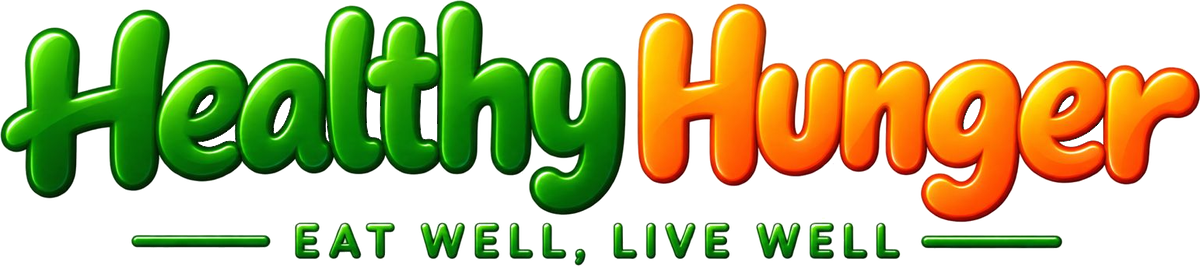
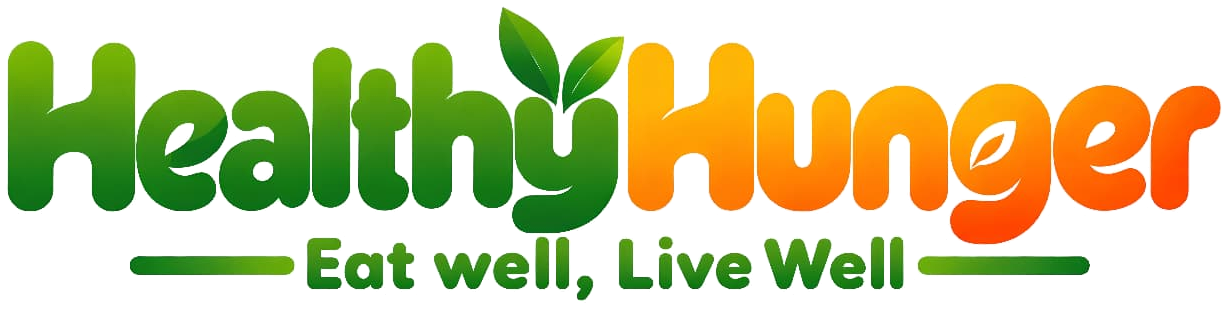
Apply the new brand wordmark everywhere, add phone to PDF menu and a monthly chart to the money book
- New Healthy Hunger wordmark (transparent) in hero, PDF and site
- BrandName text (green "Healthy" + orange "Hunger") in admin sidebar, footer and login
- PDF menu header shows "Call or WhatsApp" with the café phone from Settings
- Money book: sales, expenses and profit bar chart for the last 12 months

Claude-Session: https://claude.ai/code/session_01CESPNZ2mDnZSVm9srcJgyq

diff --git a/src/components/admin/money/monthly-chart.tsx b/src/components/admin/money/monthly-chart.tsx
@@ -1,0 +1,199 @@
+"use client";
+
+import { useState } from "react";
+import { formatINR } from "@/lib/format";
+import { cn } from "@/lib/utils";
+
+export type ChartMonth = {
+  key: string;
+  short: string;
+  label: string;
+  sales: number;
+  expenses: number;
+  profit: number;
+};
+
+// Brand green / orange plus a blue for profit; checked for colour-blind separation on both themes.
+// Dark mode uses its own steps (orange and blue a little deeper) so the bars sit evenly on the dark card.
+const SERIES = [
+  { key: "sales", label: "Sales", color: "var(--mb-sales)" },
+  { key: "expenses", label: "Expenses", color: "var(--mb-expenses)" },
+  { key: "profit", label: "Profit", color: "var(--mb-profit)" },
+] as const;
+
+const W = 760;
+const H = 260;
+const PAD = { left: 56, right: 8, top: 12, bottom: 26 };
+
+/** 1, 2, 2.5 or 5 × a power of ten – a round step for about `count` gridlines. */
+function niceStep(range: number, count = 4) {
+  const raw = range / count;
+  const pow = 10 ** Math.floor(Math.log10(raw));
+  const n = raw / pow;
+  return (n <= 1 ? 1 : n <= 2 ? 2 : n <= 2.5 ? 2.5 : n <= 5 ? 5 : 10) * pow;
+}
+
+/** ₹12k, ₹1.5L – short axis labels in the Indian style. */
+function short(v: number) {
+  const a = Math.abs(v);
+  const sign = v < 0 ? "−" : "";
+  if (a >= 100_000) return `${sign}₹${+(a / 100_000).toFixed(1)}L`;
+  if (a >= 1_000) return `${sign}₹${+(a / 1_000).toFixed(1)}k`;
+  return `${sign}₹${a}`;
+}
+
+const money = (v: number) => (v < 0 ? `−${formatINR(-v)}` : formatINR(v));
+
+/** A bar from the baseline, with 4px rounding on the end away from it. */
+function barPath(x: number, w: number, y0: number, y1: number) {
+  const up = y1 < y0;
+  const h = Math.abs(y1 - y0);
+  const r = Math.min(4, w / 2, h);
+  if (h === 0) return "";
+  return up
+    ? `M${x},${y0} V${y1 + r} Q${x},${y1} ${x + r},${y1} H${x + w - r} Q${x + w},${y1} ${x + w},${y1 + r} V${y0} Z`
+    : `M${x},${y0} V${y1 - r} Q${x},${y1} ${x + r},${y1} H${x + w - r} Q${x + w},${y1} ${x + w},${y1 - r} V${y0} Z`;
+}
+
+/** Sales, expenses and profit side by side for each month, with a hover card per month. */
+export function MonthlyChart({ months }: { months: ChartMonth[] }) {
+  const [hover, setHover] = useState<number | null>(null);
+  const values = months.flatMap((m) => [m.sales, m.expenses, m.profit]);
+  const empty = values.every((v) => v === 0);
+
+  const rawMax = Math.max(...values, 0);
+  const rawMin = Math.min(...values, 0);
+  const step = niceStep(Math.max(rawMax - rawMin, 1));
+  const top = Math.ceil(rawMax / step) * step || step;
+  const bottom = Math.floor(rawMin / step) * step;
+  const plotH = H - PAD.top - PAD.bottom;
+  const plotW = W - PAD.left - PAD.right;
+  const y = (v: number) => PAD.top + ((top - v) / (top - bottom)) * plotH;
+  const ticks: number[] = [];
+  for (let v = bottom; v <= top + step / 2; v += step) ticks.push(Math.round(v));
+
+  const groupW = plotW / months.length;
+  const gap = 2;
+  const barW = (groupW * 0.7 - gap * 2) / 3;
+  const groupX = (i: number) => PAD.left + i * groupW + groupW * 0.15;
+  const active = hover === null ? null : months[hover];
+
+  return (
+    <figure
+      className="space-y-3 [--mb-expenses:#FF8A00] [--mb-profit:#0369A1] [--mb-sales:#15803D] dark:[--mb-expenses:#D6780F] dark:[--mb-profit:#3D8EDB]"
+      aria-label="Sales, expenses and profit by month"
+    >
+      <ul className="flex flex-wrap gap-x-5 gap-y-1 text-sm">
+        {SERIES.map((s) => (
+          <li key={s.key} className="flex items-center gap-2">
+            <span className="size-3 rounded-sm" style={{ background: s.color }} aria-hidden />
+            {s.label}
+          </li>
+        ))}
+      </ul>
+
+      {empty ? (
+        <p className="py-8 text-center text-sm text-muted-foreground">
+          No sales or expenses in these months yet.
+        </p>
+      ) : (
+        <div className="relative overflow-x-auto">
+          <svg
+            viewBox={`0 0 ${W} ${H}`}
+            className="block w-full min-w-[40rem] tabular"
+            role="img"
+            aria-label="Bar chart; the table below has the same numbers"
+            onMouseLeave={() => setHover(null)}
+          >
+            {/* recessive grid and axis labels */}
+            {ticks.map((t) => (
+              <g key={t}>
+                <line
+                  x1={PAD.left}
+                  x2={W - PAD.right}
+                  y1={y(t)}
+                  y2={y(t)}
+                  className={t === 0 ? "stroke-foreground/40" : "stroke-border"}
+                  strokeWidth={1}
+                />
+                <text
+                  x={PAD.left - 8}
+                  y={y(t)}
+                  dy="0.32em"
+                  textAnchor="end"
+                  className="fill-muted-foreground text-[11px]"
+                >
+                  {short(t)}
+                </text>
+              </g>
+            ))}
+
+            {months.map((m, i) => (
+              <g key={m.key}>
+                {hover === i && (
+                  <rect
+                    x={PAD.left + i * groupW}
+                    y={PAD.top}
+                    width={groupW}
+                    height={plotH}
+                    rx={6}
+                    className="fill-muted/70"
+                  />
+                )}
+                {SERIES.map((s, j) => (
+                  <path
+                    key={s.key}
+                    d={barPath(groupX(i) + j * (barW + gap), barW, y(0), y(m[s.key]))}
+                    fill={s.color}
+                  />
+                ))}
+                <text
+                  x={PAD.left + i * groupW + groupW / 2}
+                  y={H - 8}
+                  textAnchor="middle"
+                  className={cn(
+                    "text-[11px]",
+                    hover === i ? "fill-foreground font-semibold" : "fill-muted-foreground",
+                  )}
+                >
+                  {m.short}
+                </text>
+                {/* hit target: the whole month column */}
+                <rect
+                  x={PAD.left + i * groupW}
+                  y={PAD.top}
+                  width={groupW}
+                  height={plotH + PAD.bottom}
+                  fill="transparent"
+                  onMouseEnter={() => setHover(i)}
+                  onClick={() => setHover(i)}
+                />
+              </g>
+            ))}
+          </svg>
+
+          {active && hover !== null && (
+            <div
+              role="status"
+              className="pointer-events-none absolute top-2 z-10 w-44 rounded-xl border border-border bg-popover p-3 text-sm text-popover-foreground shadow-lg"
+              style={{
+                left: `clamp(0px, calc(${((PAD.left + (hover + 0.5) * groupW) / W) * 100}% - 5.5rem), calc(100% - 11rem))`,
+              }}
+            >
+              <p className="mb-1 font-semibold">{active.label}</p>
+              {SERIES.map((s) => (
+                <p key={s.key} className="flex items-center gap-2">
+                  <span className="size-2.5 rounded-sm" style={{ background: s.color }} aria-hidden />
+                  <span className="flex-1 text-muted-foreground">{s.label}</span>
+                  <span className={cn("tabular font-semibold", active[s.key] < 0 && "text-destructive")}>
+                    {money(active[s.key])}
+                  </span>
+                </p>
+              ))}
+            </div>
+          )}
+        </div>
+      )}
+    </figure>
+  );
+}

diff --git a/src/components/brand/logo.tsx b/src/components/brand/logo.tsx
@@ -2,7 +2,7 @@ import Image from "next/image";
 import { cn } from "@/lib/utils";
 
 // Source artwork: doc/brand-guide.jpg. Cut-outs live in public/brand.
-const WORDMARK = { src: "/brand/hh-wordmark.webp", width: 1200, height: 266 };
+const WORDMARK = { src: "/brand/hh-wordmark.webp", width: 1228, height: 309 };
 const ICON = { src: "/brand/hh-icon-512.webp", width: 512, height: 391 };
 
 type Props = { className?: string; priority?: boolean };
@@ -16,9 +16,27 @@ export function LogoWordmark({ className, priority }: Props) {
       height={WORDMARK.height}
       alt="Healthy Hunger – Eat well, live well"
       priority={priority}
-      className={cn("h-10 w-auto select-none", className)}
+      // the artwork has no outline, so a faint light halo keeps it readable on dark backgrounds
+      className={cn("h-10 w-auto select-none dark:drop-shadow-[0_0_10px_rgba(255,255,255,0.22)]", className)}
       draggable={false}
     />
+  );
+}
+
+/**
+ * "Healthy Hunger" set in the logo's style: rounded bold type, "Healthy" in the greens and "Hunger"
+ * in the oranges, each with the logo's light-to-deep gradient. For places where the name is text.
+ */
+export function BrandName({ className }: { className?: string }) {
+  return (
+    <span className={cn("font-heading font-extrabold tracking-tight whitespace-nowrap", className)}>
+      <span className="bg-linear-to-b from-hh-green-light to-hh-green bg-clip-text text-transparent">
+        Healthy
+      </span>
+      <span className="bg-linear-to-b from-hh-orange-light to-hh-orange bg-clip-text text-transparent">
+        Hunger
+      </span>
+    </span>
   );
 }
 
@@ -40,7 +58,7 @@ export function LogoIcon({ className, priority, alt = "Healthy Hunger" }: Props 
 /** "— EAT WELL, LIVE WELL —" */
 export function Tagline({ className }: { className?: string }) {
   return (
-    <p className={cn("tagline flex items-center gap-3 text-xs text-hh-green", className)}>
+    <p className={cn("flex items-center gap-3 tagline text-xs text-hh-green", className)}>
       <span aria-hidden className="h-0.5 w-8 rounded-full bg-current" />
       Eat well, live well
       <span aria-hidden className="h-0.5 w-8 rounded-full bg-current" />

diff --git a/src/components/admin/admin-nav.tsx b/src/components/admin/admin-nav.tsx
@@ -18,7 +18,7 @@ import Link from "next/link";
 import { usePathname } from "next/navigation";
 import { useState } from "react";
 import { logout } from "@/app/admin/login/actions";
-import { LogoIcon } from "@/components/brand/logo";
+import { BrandName, LogoIcon } from "@/components/brand/logo";
 import { ThemeToggle } from "@/components/theme/theme-toggle";
 import { Button } from "@/components/ui/button";
 import { Sheet, SheetContent, SheetTitle } from "@/components/ui/sheet";
@@ -113,7 +113,7 @@ export function AdminSidebar({ user }: { user: CurrentUser }) {
         <span className="rounded-xl bg-white p-1">
           <LogoIcon className="h-7" alt="" />
         </span>
-        <span className="font-heading text-lg font-bold">Healthy Hunger</span>
+        <BrandName className="text-xl" />
       </Link>
       <div className="flex-1 overflow-y-auto">
         <NavLinks user={user} />
@@ -140,8 +140,8 @@ export function AdminMobileBar({ user }: { user: CurrentUser }) {
       <span className="font-heading font-bold">Dashboard</span>
       <Sheet open={open} onOpenChange={setOpen}>
         <SheetContent side="left" className="w-72 gap-6 border-0 bg-sidebar p-4 text-sidebar-foreground">
-          <SheetTitle className="px-2 pt-1 font-heading text-lg text-sidebar-foreground">
-            Healthy Hunger
+          <SheetTitle className="px-2 pt-1">
+            <BrandName className="text-xl" />
           </SheetTitle>
           <div className="flex-1 overflow-y-auto">
             <NavLinks user={user} onNavigate={() => setOpen(false)} />

diff --git a/src/app/admin/(dashboard)/money/page.tsx b/src/app/admin/(dashboard)/money/page.tsx
@@ -1,6 +1,7 @@
 import { ChevronLeft, ChevronRight, Download } from "lucide-react";
 import Link from "next/link";
 import { CardFeesForm, DeleteExtraSaleButton, ExtraSaleForm } from "@/components/admin/money/money-forms";
+import { MonthlyChart } from "@/components/admin/money/monthly-chart";
 import { Button } from "@/components/ui/button";
 import { requireUser } from "@/lib/auth/dal";
 import { today } from "@/lib/data/cash";
@@ -286,7 +287,22 @@ export default async function MoneyBookPage({ searchParams }: PageProps<"/admin/
         <h3 id="months-h" className="font-bold">
           Month by month · last 12 months
         </h3>
-        <div className="mt-3 overflow-x-auto">
+        <p className="text-sm text-muted-foreground">
+          Sales, expenses and profit for each month. Tap a month to see the numbers.
+        </p>
+        <div className="mt-4">
+          <MonthlyChart
+            months={book.months.map((m) => ({
+              key: m.key,
+              short: new Date(`${m.key}-01T12:00:00`).toLocaleDateString("en-IN", { month: "short" }),
+              label: m.label,
+              sales: toRupees(m.sales),
+              expenses: toRupees(m.expenses),
+              profit: toRupees(m.profit),
+            }))}
+          />
+        </div>
+        <div className="mt-5 overflow-x-auto">
           <table className="w-full min-w-[56rem] text-right tabular text-sm">
             <thead className="text-xs text-muted-foreground">
               <tr className="border-b border-border">

diff --git a/src/lib/menu-pdf/document.tsx b/src/lib/menu-pdf/document.tsx
@@ -45,7 +45,17 @@ const s = StyleSheet.create({
     paddingBottom: 10,
   },
   header: { alignItems: "center", marginBottom: 12 },
-  logo: { width: 220, height: 49 },
+  logo: { width: 232, height: 58 },
+  phone: {
+    marginTop: 5,
+    fontSize: 9,
+    fontWeight: 800,
+    color: "#FFFFFF",
+    backgroundColor: C.green,
+    borderRadius: 9,
+    paddingHorizontal: 9,
+    paddingVertical: 2.5,
+  },
   vegLine: { marginTop: 5, flexDirection: "row", alignItems: "center", gap: 4 },
   vegBox: {
     width: 8,
@@ -195,7 +205,8 @@ function Block({ block }: { block: PdfBlock }) {
 
 export function MenuPdf({ menu, cafe, menuUrl }: { menu: PublicMenu; cafe: CafeDetails; menuUrl: string }) {
   const pages = paginate(groupMenu(menu.categories, menu.items, menu.addOns));
-  const contact = [cafe.address, cafe.phone, cafe.instagram && `@${cafe.instagram.replace(/^@/, "")}`]
+  const phone = cafe.phone.trim();
+  const contact = [cafe.address, cafe.instagram && `@${cafe.instagram.replace(/^@/, "")}`]
     .filter(Boolean)
     .join("  ·  ");
   const updated = new Date().toLocaleDateString("en-IN", {
@@ -224,6 +235,7 @@ export function MenuPdf({ menu, cafe, menuUrl }: { menu: PublicMenu; cafe: CafeD
                 </View>
                 <Text style={s.vegText}>100% veg. Protein from real food.</Text>
               </View>
+              {phone && <Text style={s.phone}>Call or WhatsApp: {phone}</Text>}
             </View>
 
             <View style={s.columns}>

diff --git a/src/components/landing/site-footer.tsx b/src/components/landing/site-footer.tsx
@@ -1,5 +1,5 @@
 import Link from "next/link";
-import { LogoIcon } from "@/components/brand/logo";
+import { BrandName, LogoIcon } from "@/components/brand/logo";
 import type { CafeDetails } from "@/lib/data/menu";
 
 export function SiteFooter({ cafe }: { cafe: CafeDetails }) {
@@ -11,10 +11,10 @@ export function SiteFooter({ cafe }: { cafe: CafeDetails }) {
             <LogoIcon className="h-10" alt="" />
           </span>
           <div>
-            <p className="font-heading text-2xl font-bold">
-              Healthy <span className="text-hh-orange-light">Hunger</span>
+            <p className="text-3xl leading-none">
+              <BrandName />
             </p>
-            <p className="tagline mt-0.5 text-[11px] text-white/75">Eat well, live well</p>
+            <p className="mt-0.5 tagline text-[11px] text-white/75">Eat well, live well</p>
           </div>
         </div>
         <nav className="flex flex-wrap gap-x-6 gap-y-2 text-sm text-white/85">

diff --git a/src/app/admin/login/page.tsx b/src/app/admin/login/page.tsx
@@ -1,5 +1,5 @@
 import type { Metadata } from "next";
-import { LogoIcon } from "@/components/brand/logo";
+import { BrandName, LogoIcon } from "@/components/brand/logo";
 import { LoginForm } from "./login-form";
 
 export const metadata: Metadata = { title: "Staff login", robots: { index: false } };
@@ -12,7 +12,9 @@ export default async function LoginPage({ searchParams }: PageProps<"/admin/logi
         <div className="mb-6 flex flex-col items-center text-center">
           <LogoIcon className="h-14" alt="" priority />
           <h1 className="mt-3 text-2xl font-bold">Staff login</h1>
-          <p className="text-sm text-muted-foreground">Healthy Hunger dashboard</p>
+          <p className="text-sm text-muted-foreground">
+            <BrandName className="text-base" /> dashboard
+          </p>
         </div>
         <LoginForm next={typeof next === "string" ? next : undefined} />
       </div>

diff --git a/src/lib/menu-pdf/layout.ts b/src/lib/menu-pdf/layout.ts
@@ -11,7 +11,7 @@ export type PdfBlock = PdfCategory & { continued: boolean; showAddOns: boolean }
 export type PdfPage = [PdfBlock[], PdfBlock[]];
 
 /** Usable height of one column in points (A4 minus padding, header and footer, with slack). */
-export const COLUMN_HEIGHT = 655;
+export const COLUMN_HEIGHT = 630;
 
 const NAME_CHARS_PER_LINE = 40;
 const TEXT_CHARS_PER_LINE = 68;
